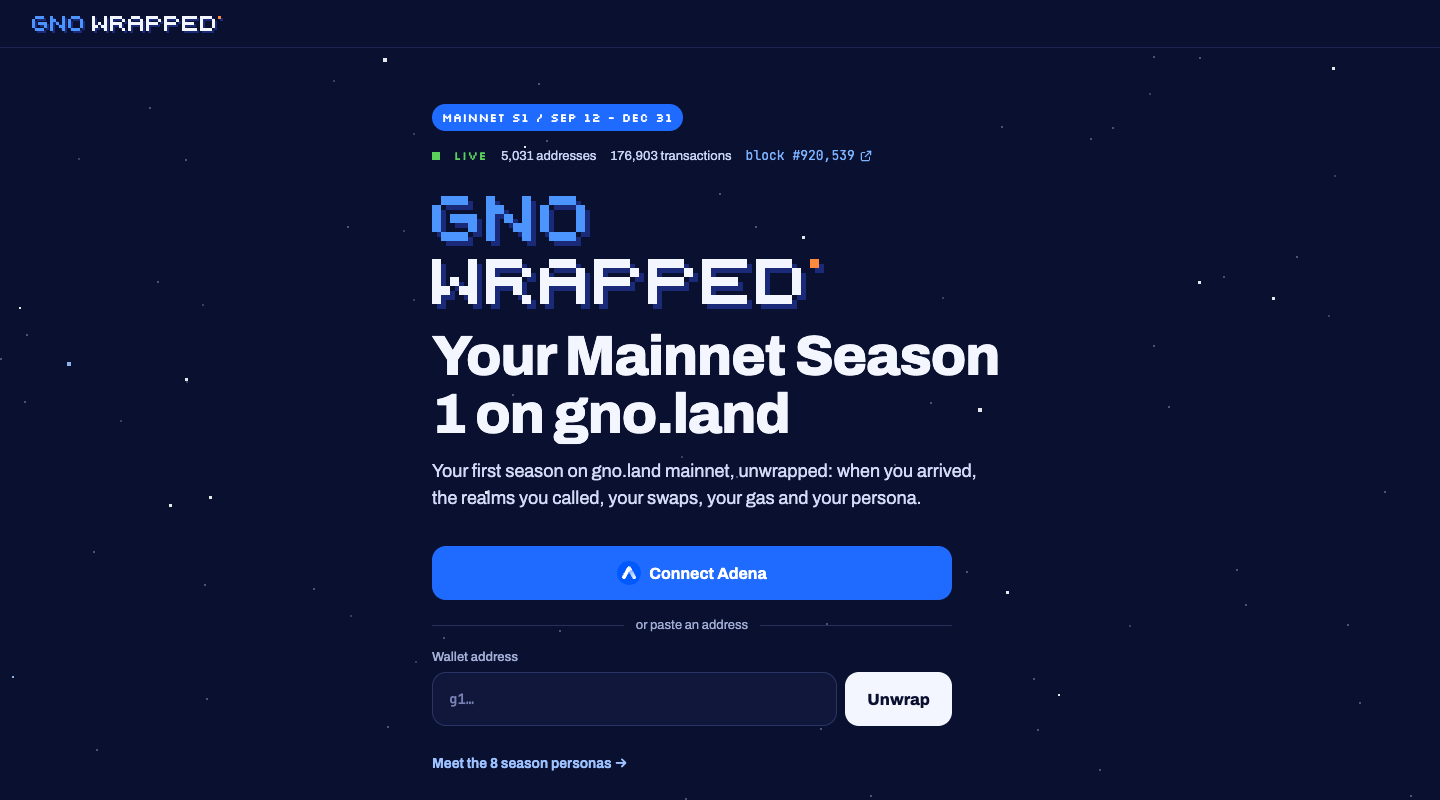
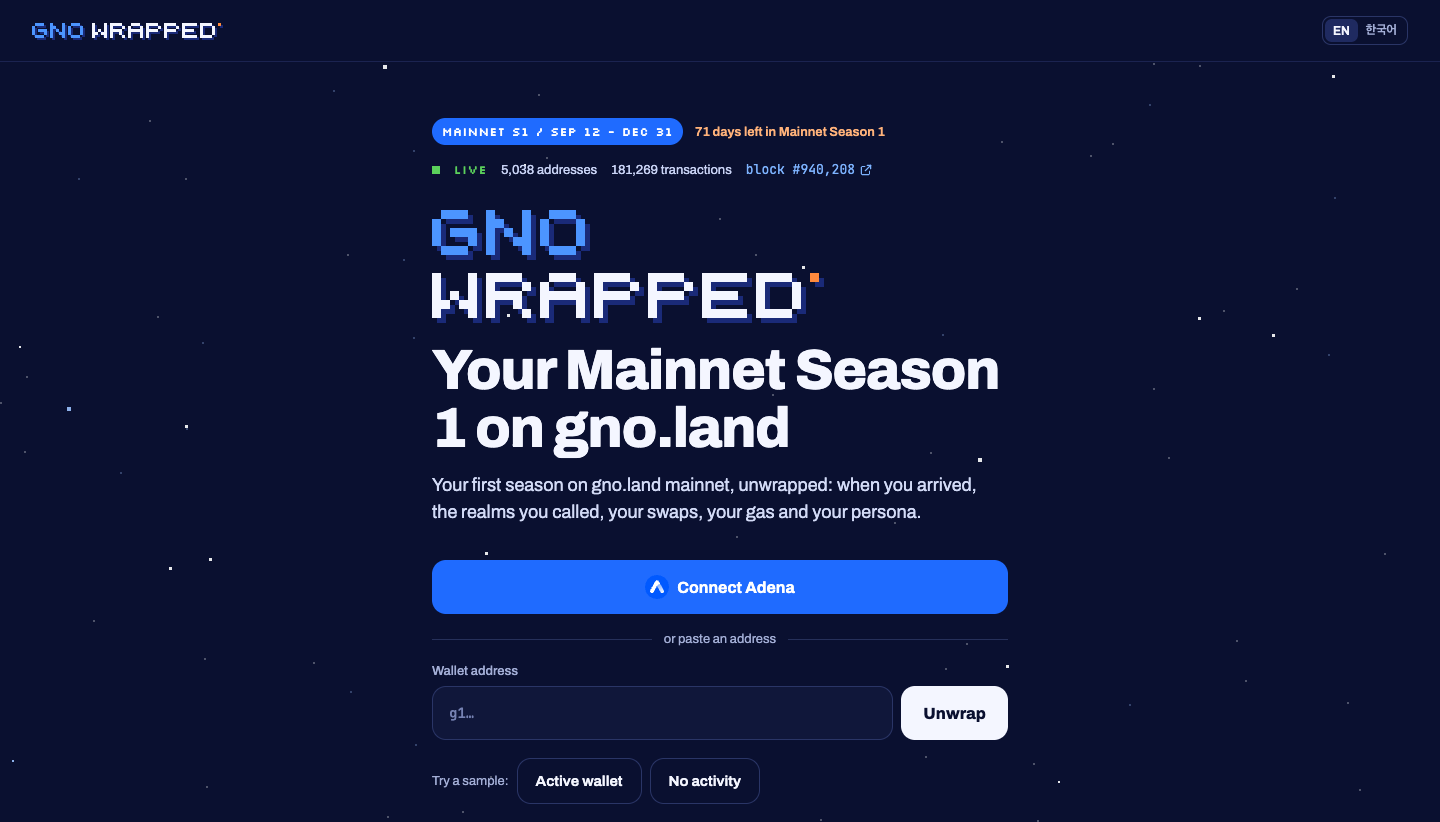
docs: refresh the screenshots and add story mode
Recap, intro and personas retaken: they now show the season countdown,
the story button and the language switch. The recap is the sample
fixture, so no real address appears. New: story mode on a phone.

diff --git a/README.md b/README.md
@@ -41,6 +41,8 @@ and a share card for X and Discord. It follows the chain live, so new activity s
 
 <p align="center"><img src="docs/screenshots/share-card.png" width="600" alt="Share card shown on X and Discord"></p>
 
+<p align="center"><img src="docs/screenshots/story.png" width="280" alt="Story mode on a phone: the persona card"></p>
+
 The site's `/season` page is the same recap for the whole chain: totals, transactions and new
 addresses per day, and the most-used realms.
 
